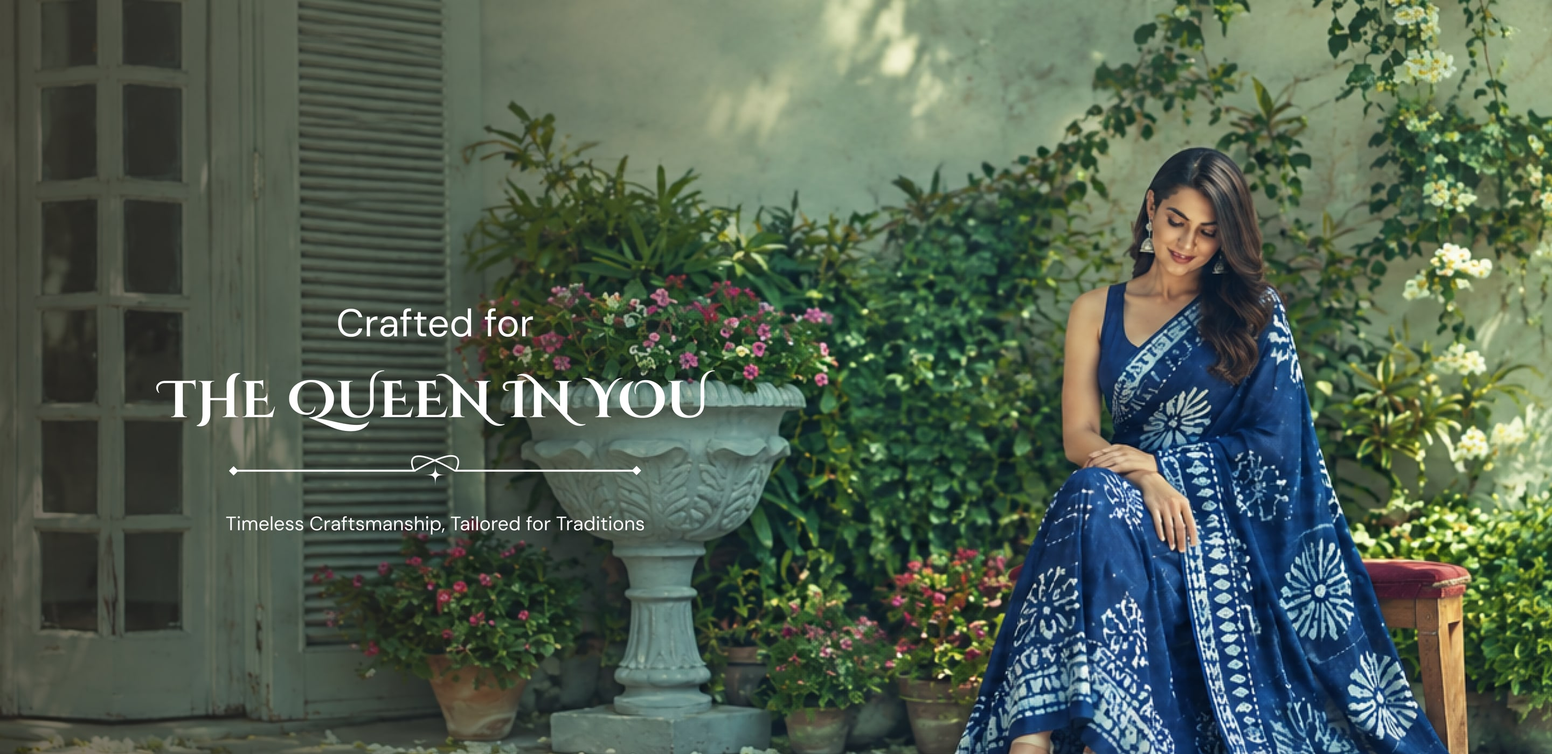
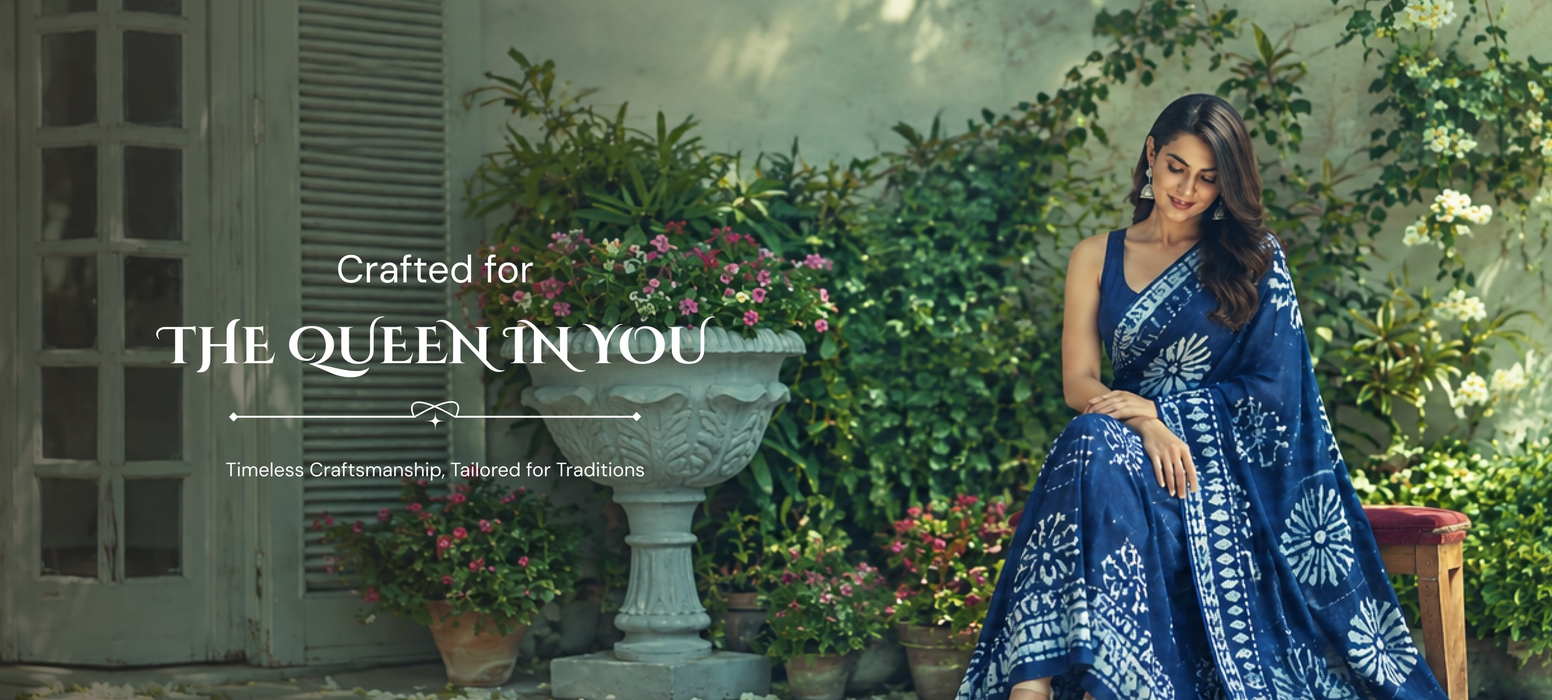
feat: add global design system and styling in index.css

diff --git a/src/index.css b/src/index.css
@@ -1771,10 +1771,10 @@ h3 { font-weight: 600; font-size: clamp(22px, 2.8vw, 28px); line-height: 1.3; }
 .hero {
   position: relative;
   width: 100%;
-  aspect-ratio: 16 / 9;
+  aspect-ratio: 2880 / 1400;
   height: auto !important;
   min-height: unset !important;
-  max-height: unset !important;
+  max-height: 82vh !important;
   overflow: hidden;
   background-color: #1E140F;
 }
